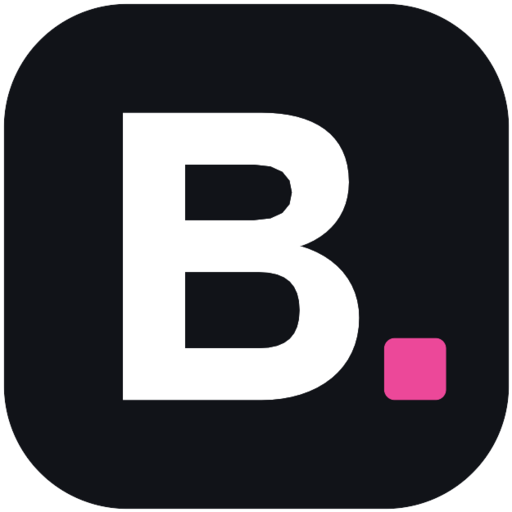
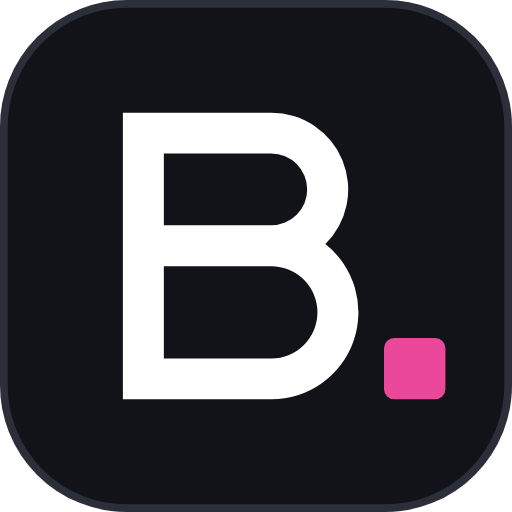
Brand: medium-weight B mark everywhere; softer slate signature
Redraw the B. with a uniform 8-unit stroke (was bold) in mark.svg,
favicon, brand deck and OG card, and re-render the PNG rasters.
Email signature uses an ink-soft #334155 tile and name.

diff --git a/email-signature.html b/email-signature.html
@@ -33,9 +33,9 @@
     </td>
     <td valign="top" style="padding:0 0 0 16px; border-left:1px solid #e2e8f0;">
       <div style="font-family:'JetBrains Mono', Menlo, Consolas, 'Courier New', monospace; font-size:12px; line-height:18px; color:#64748b; white-space:nowrap;"><span style="color:#be185d;">//</span> développeur &amp; UX designer</div>
-      <div style="font-size:18px; line-height:24px; font-weight:bold; letter-spacing:-0.5px; color:#0f172a; padding:2px 0 8px; white-space:nowrap;">Brieuc de Goussencourt<span style="color:#ec4899;">.</span></div>
+      <div style="font-size:18px; line-height:24px; font-weight:bold; letter-spacing:-0.5px; color:#334155; padding:2px 0 8px; white-space:nowrap;">Brieuc de Goussencourt<span style="color:#ec4899;">.</span></div>
       <div style="font-family:'JetBrains Mono', Menlo, Consolas, 'Courier New', monospace; font-size:12px; line-height:20px; white-space:nowrap;">
-        <span style="color:#be185d;">❯</span>&nbsp;<a href="https://brieuc.co" style="color:#0f172a; text-decoration:none; font-weight:bold;">brieuc<span style="color:#ec4899;">.co</span></a>
+        <span style="color:#be185d;">❯</span>&nbsp;<a href="https://brieuc.co" style="color:#334155; text-decoration:none; font-weight:bold;">brieuc<span style="color:#ec4899;">.co</span></a>
         <span style="color:#cbd5e1;">&nbsp;/&nbsp;</span>
         <a href="https://www.linkedin.com/in/brieuc-de-goussencourt-003324304" style="color:#334155; text-decoration:none;">linkedin</a>
         <span style="color:#cbd5e1;">&nbsp;/&nbsp;</span>

diff --git a/brand/brand-deck.html b/brand/brand-deck.html
@@ -176,12 +176,8 @@
               <!-- Icon Squircle -->
               <rect x="10" y="10" width="100" height="100" rx="24" fill="#111318" />
               <rect x="10" y="10" width="100" height="100" rx="24" stroke="#2A2F3A" stroke-width="1.5" />
-              <!-- Balanced Geometric 'B' with even upper & lower bowls -->
-              <path fill-rule="evenodd" clip-rule="evenodd" d="
-                M 34 32 H 61 C 71 32 78 36 78 45.5 C 78 51.5 74.5 56 68.5 58 C 75.5 60 80 65 80 72 C 80 82 72 88 61 88 H 34 V 32 Z
-                M 46 42 V 53 H 59.5 C 64.5 53 67 51 67 47.5 C 67 44 64.5 42 59.5 42 H 46 Z
-                M 46 63 V 78 H 60.5 C 66 78 68.5 75.5 68.5 70.5 C 68.5 65.5 66 63 60.5 63 H 46 Z" 
-                fill="#FFFFFF" />
+              <!-- Medium-weight geometric 'B' (8-unit stroke) with round bowls -->
+              <path fill-rule="evenodd" clip-rule="evenodd" d="M34 32H63A15 15 0 0 1 73.55 57.67A17 17 0 0 1 63 88H34V32ZM42 40V54H63A7 7 0 0 0 63 40H42ZM42 62V80H63A9 9 0 0 0 63 62H42Z" fill="#FFFFFF" />
               <!-- Electric Pink Cursor Dot -->
               <rect x="85" y="76" width="12" height="12" rx="2" fill="#EC4899" />
 

diff --git a/brand/README.md b/brand/README.md
@@ -11,16 +11,24 @@ header). This file extracts the rules from it.
 | --- | --- |
 | [`mark.svg`](mark.svg) | The **B.** mark — master vector (also `public/favicon.svg`) |
 | [`mark-512.png`](mark-512.png) | Raster mark for places that refuse SVG |
-| `public/email/logo.png` | 144 px mark for the email signature (served at brieuc.co/email/logo.png) |
+| `public/email/logo.png` | 144 px mark for the email signature, on a softer slate tile (served at brieuc.co/email/logo.png) |
 | [`og-image.svg`](og-image.svg) | 1200×630 social share card → `public/og-image.png` (render with headless Chrome so Inter / JetBrains Mono load; ImageMagick's SVG renderer breaks the text) |
 
 - **Mark:** squircle tile (`rx` = 24% of the side) in obsidian `#111318` with a
-  1.5px `#2A2F3A` hairline; a bold geometric white **B** with even bowls; a
-  rounded pink square "cursor dot" sitting on the baseline to its right.
+  1.5px `#2A2F3A` hairline; a medium-weight geometric white **B** (uniform
+  8-unit stroke on the 100-unit tile, round bowls, the lower one slightly
+  wider); a rounded pink square "cursor dot" sitting on the baseline to its
+  right.
 - **Wordmark:** `brieuc` in charcoal (white on dark) + `.co` in brand pink,
   bold geometric sans, tight tracking. The dot is part of `.co` and is pink.
 - **Lockup:** mark left, wordmark right, wordmark cap-height ≈ half the tile.
 - Never recolour the B or the tile; the pink dot is the only accent in the mark.
+  One exception: the **email signature** uses an ink-soft `#334155` tile (no
+  visible hairline) with the name and `brieuc.co` in the same `#334155`, so it
+  sits lighter in inboxes.
+- **Rasters** (`mark-512.png`, `public/apple-touch-icon.png`,
+  `public/email/logo.png`, `public/og-image.png`) are rendered from the SVGs
+  with headless Chrome — re-render them whenever the mark changes.
 
 ## Colour
 
@@ -32,6 +40,7 @@ header). This file extracts the rules from it.
 | Pink light | `#F9A8D4` | Pink text on dark surfaces |
 | Charcoal | `#0F172A` | Primary text, primary buttons |
 | Obsidian | `#111318` | Logo tile, dark surfaces |
+| Ink soft | `#334155` | Primary button hover; email-signature tile and name |
 | Surface dark | `#181B22` | Raised panels on obsidian |
 | Border dark | `#2A2F3A` | Hairlines on obsidian |
 | Blueprint | `#E2E8F0` | Hairlines and the grid on light |
